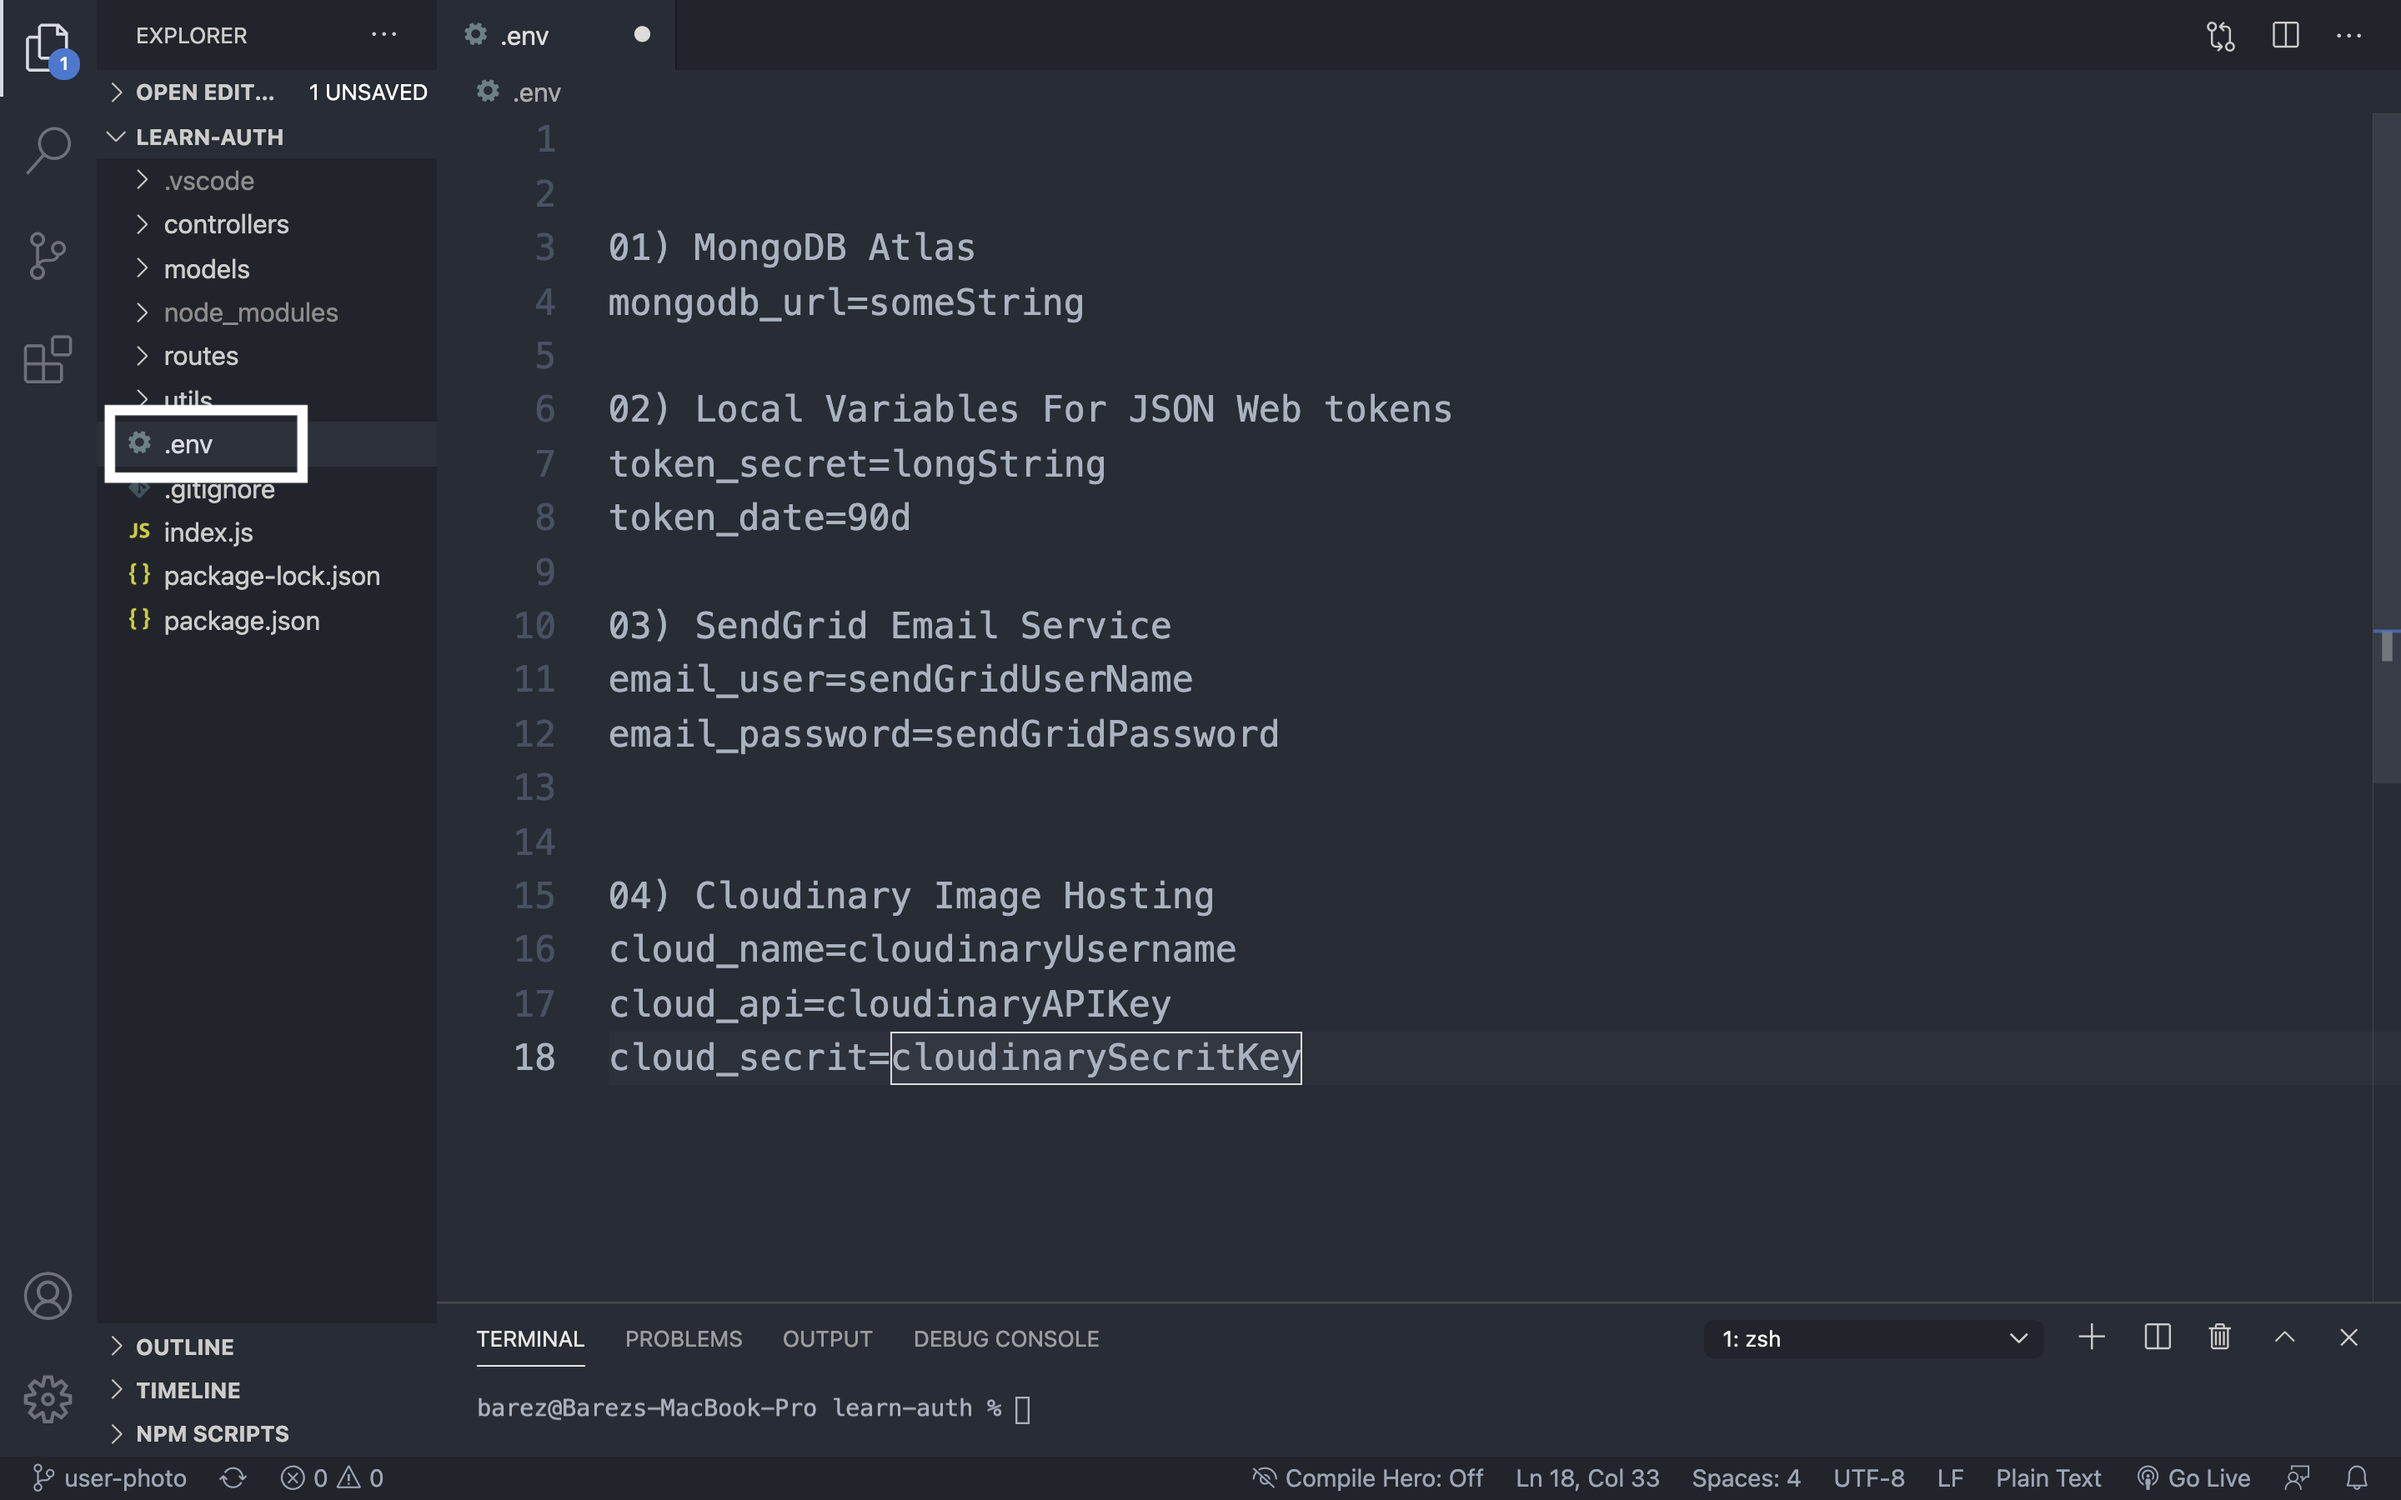
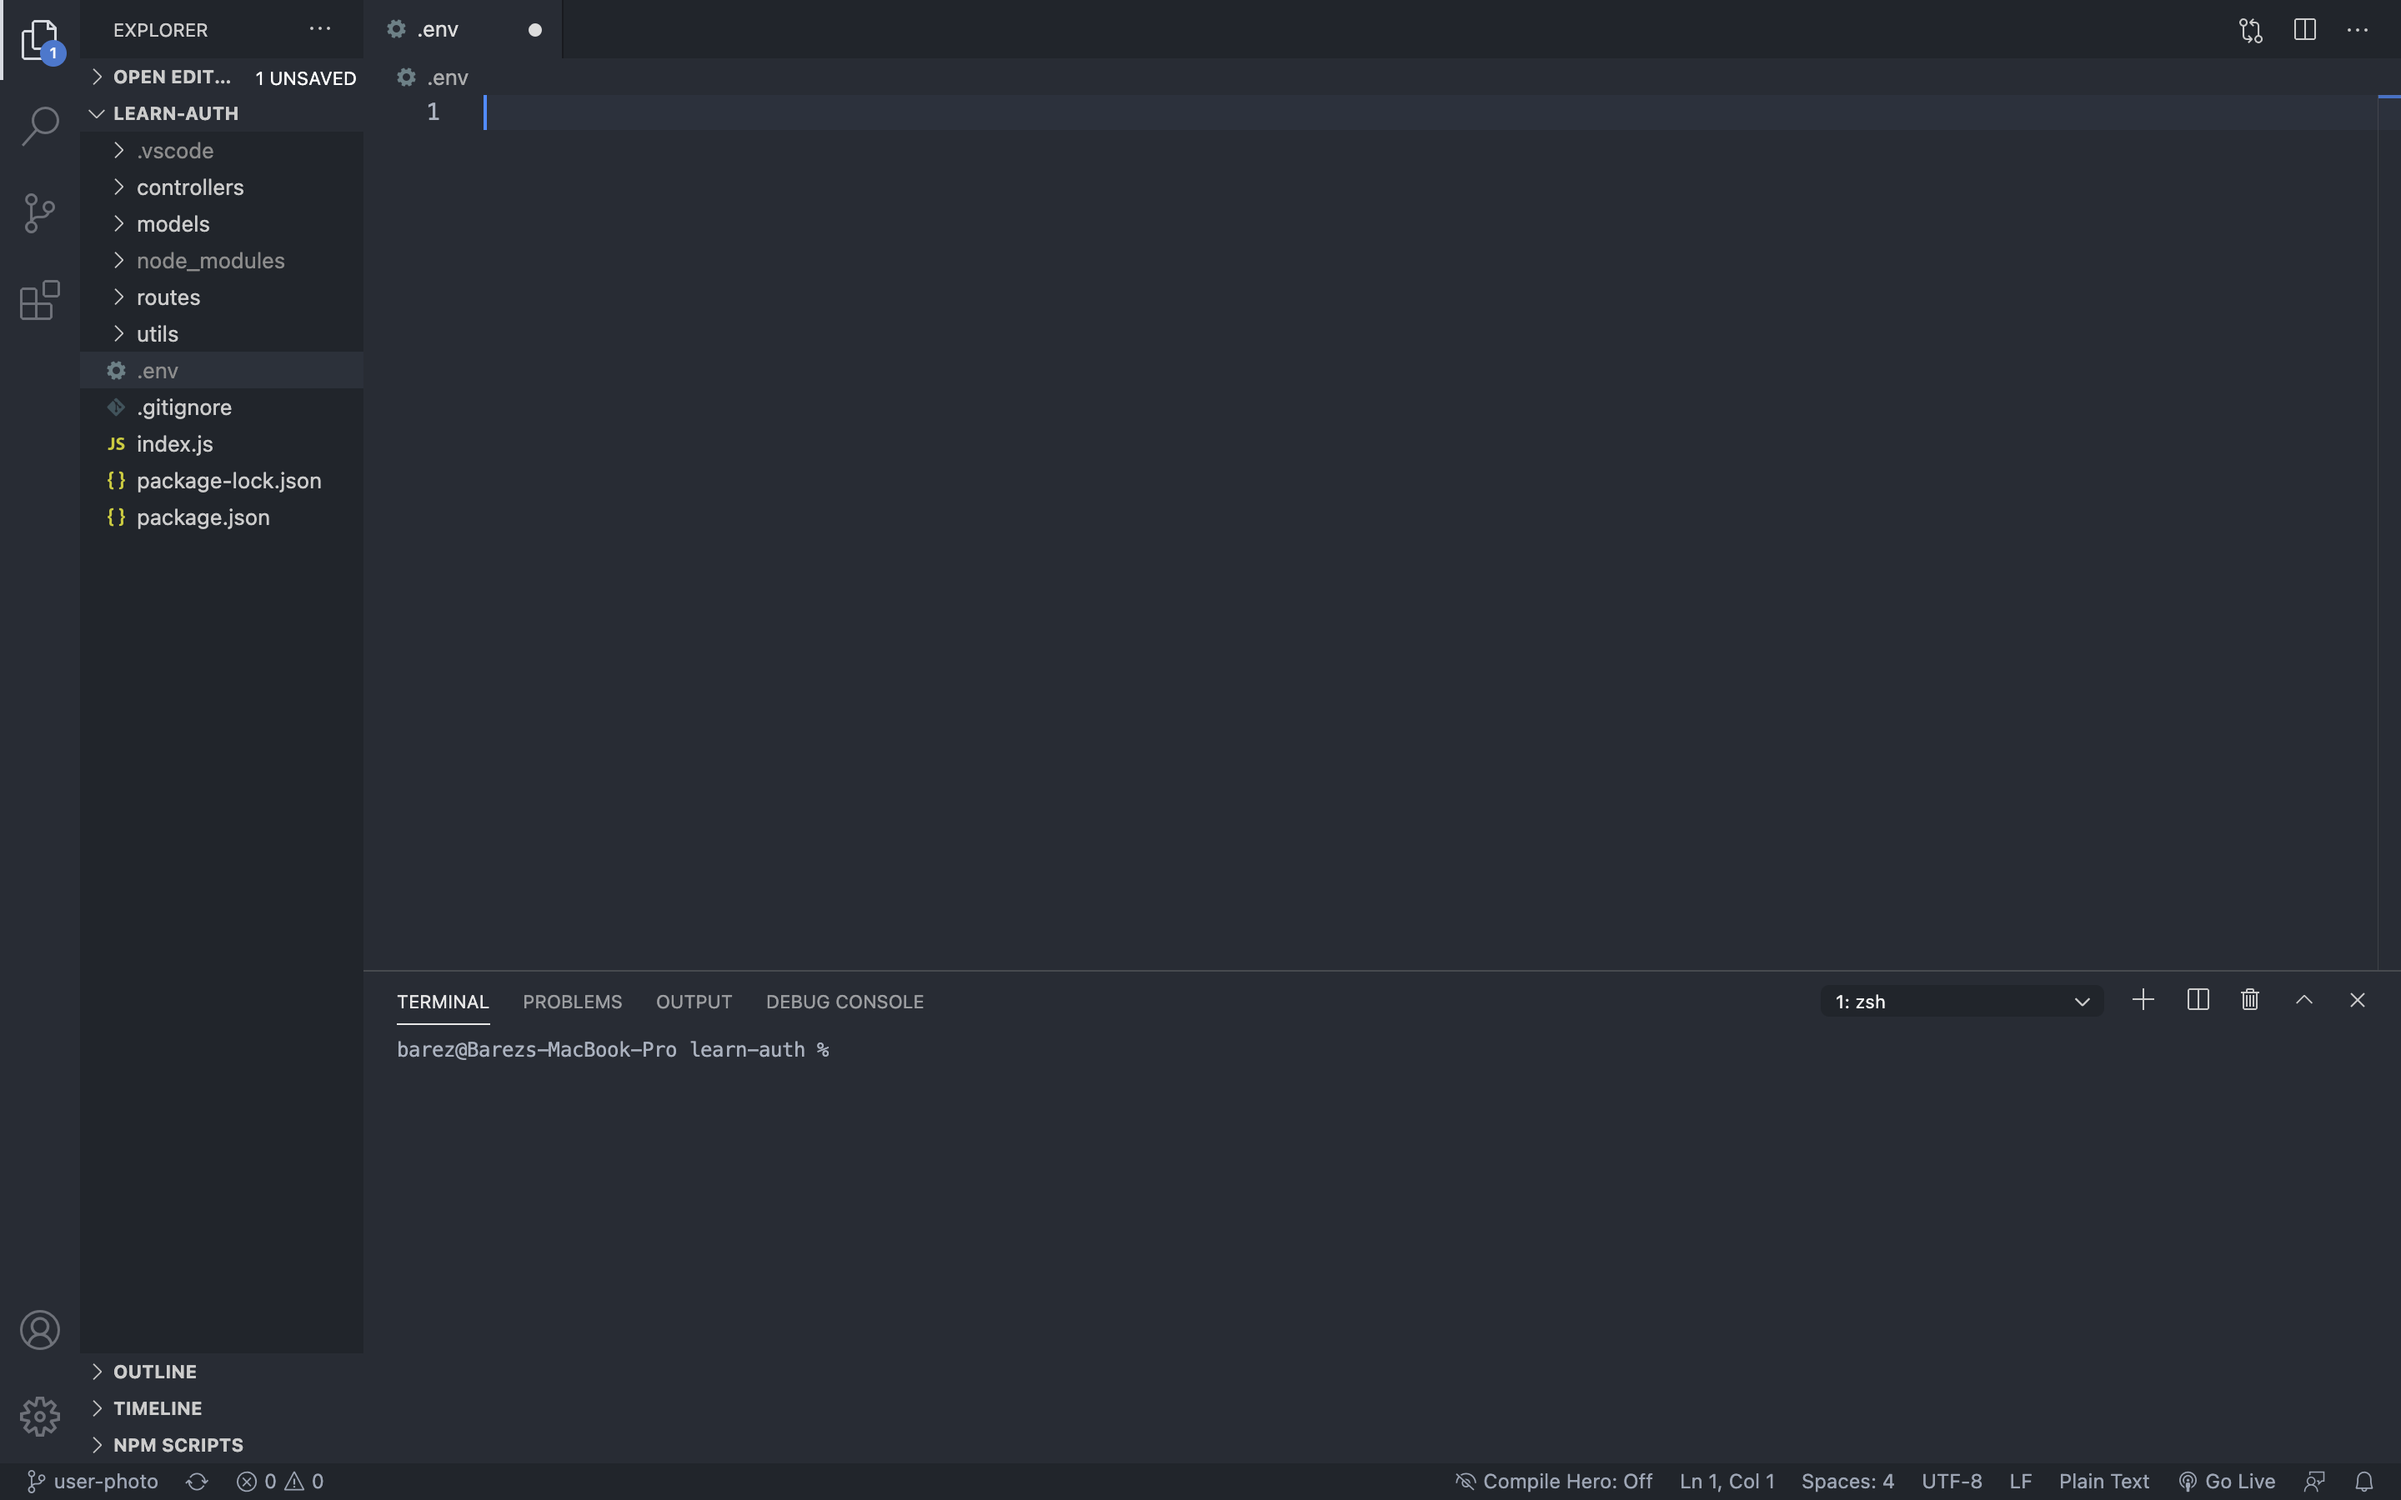
working on the install page

diff --git a/src/components/Installation.js b/src/components/Installation.js
@@ -1,6 +1,8 @@
 import React from "react";
 import step_1 from "./../media/installation/step_1.png";
 import step_2 from "./../media/installation/step_2.png";
+import step_3 from "./../media/installation/step_3.png";
+import step_4 from "./../media/installation/step_4.png";
 
 function Installation() {
   return (
@@ -24,6 +26,38 @@ function Installation() {
           <div className="hilight">npm install</div>
           <p className="docs_desc">That will ahead and add the node_modules </p>
           <img src={step_2} alt="open folder" className="docs__img" />
+        </p>
+        <p className="docs_desc">
+          Once you have the node_modules added to your porject, now we need to create a
+          file to store the environment variables that we need in order for our
+          application to run, now if you are wondering why we are using environment
+          variables here, well the answer is very simple its just to store secure and
+          important information
+          <p className="docs_desc">
+            To create the environment variables you need to run the follwoing command{" "}
+          </p>
+          <div className="hilight">touch .env</div>
+          <p className="docs_desc">
+            That will ahead and add new file called .env to your project tree{" "}
+          </p>
+          <img src={step_3} alt="open folder" className="docs__img" />
+          <p className="docs_desc">
+            Now We need to add the following environment variables to our file so our
+            application cloud run
+          </p>
+          <div className="hilight">
+            mongodb_url <br />
+            token_secret
+            <br /> token_date
+            <br />
+            email_user <br />
+            email_password <br />
+            cloud_name <br />
+            cloud_api
+            <br />
+            cloud_secrit
+          </div>
+          <img src={step_4} alt="open folder" className="docs__img" />
         </p>
       </p>
     </div>
